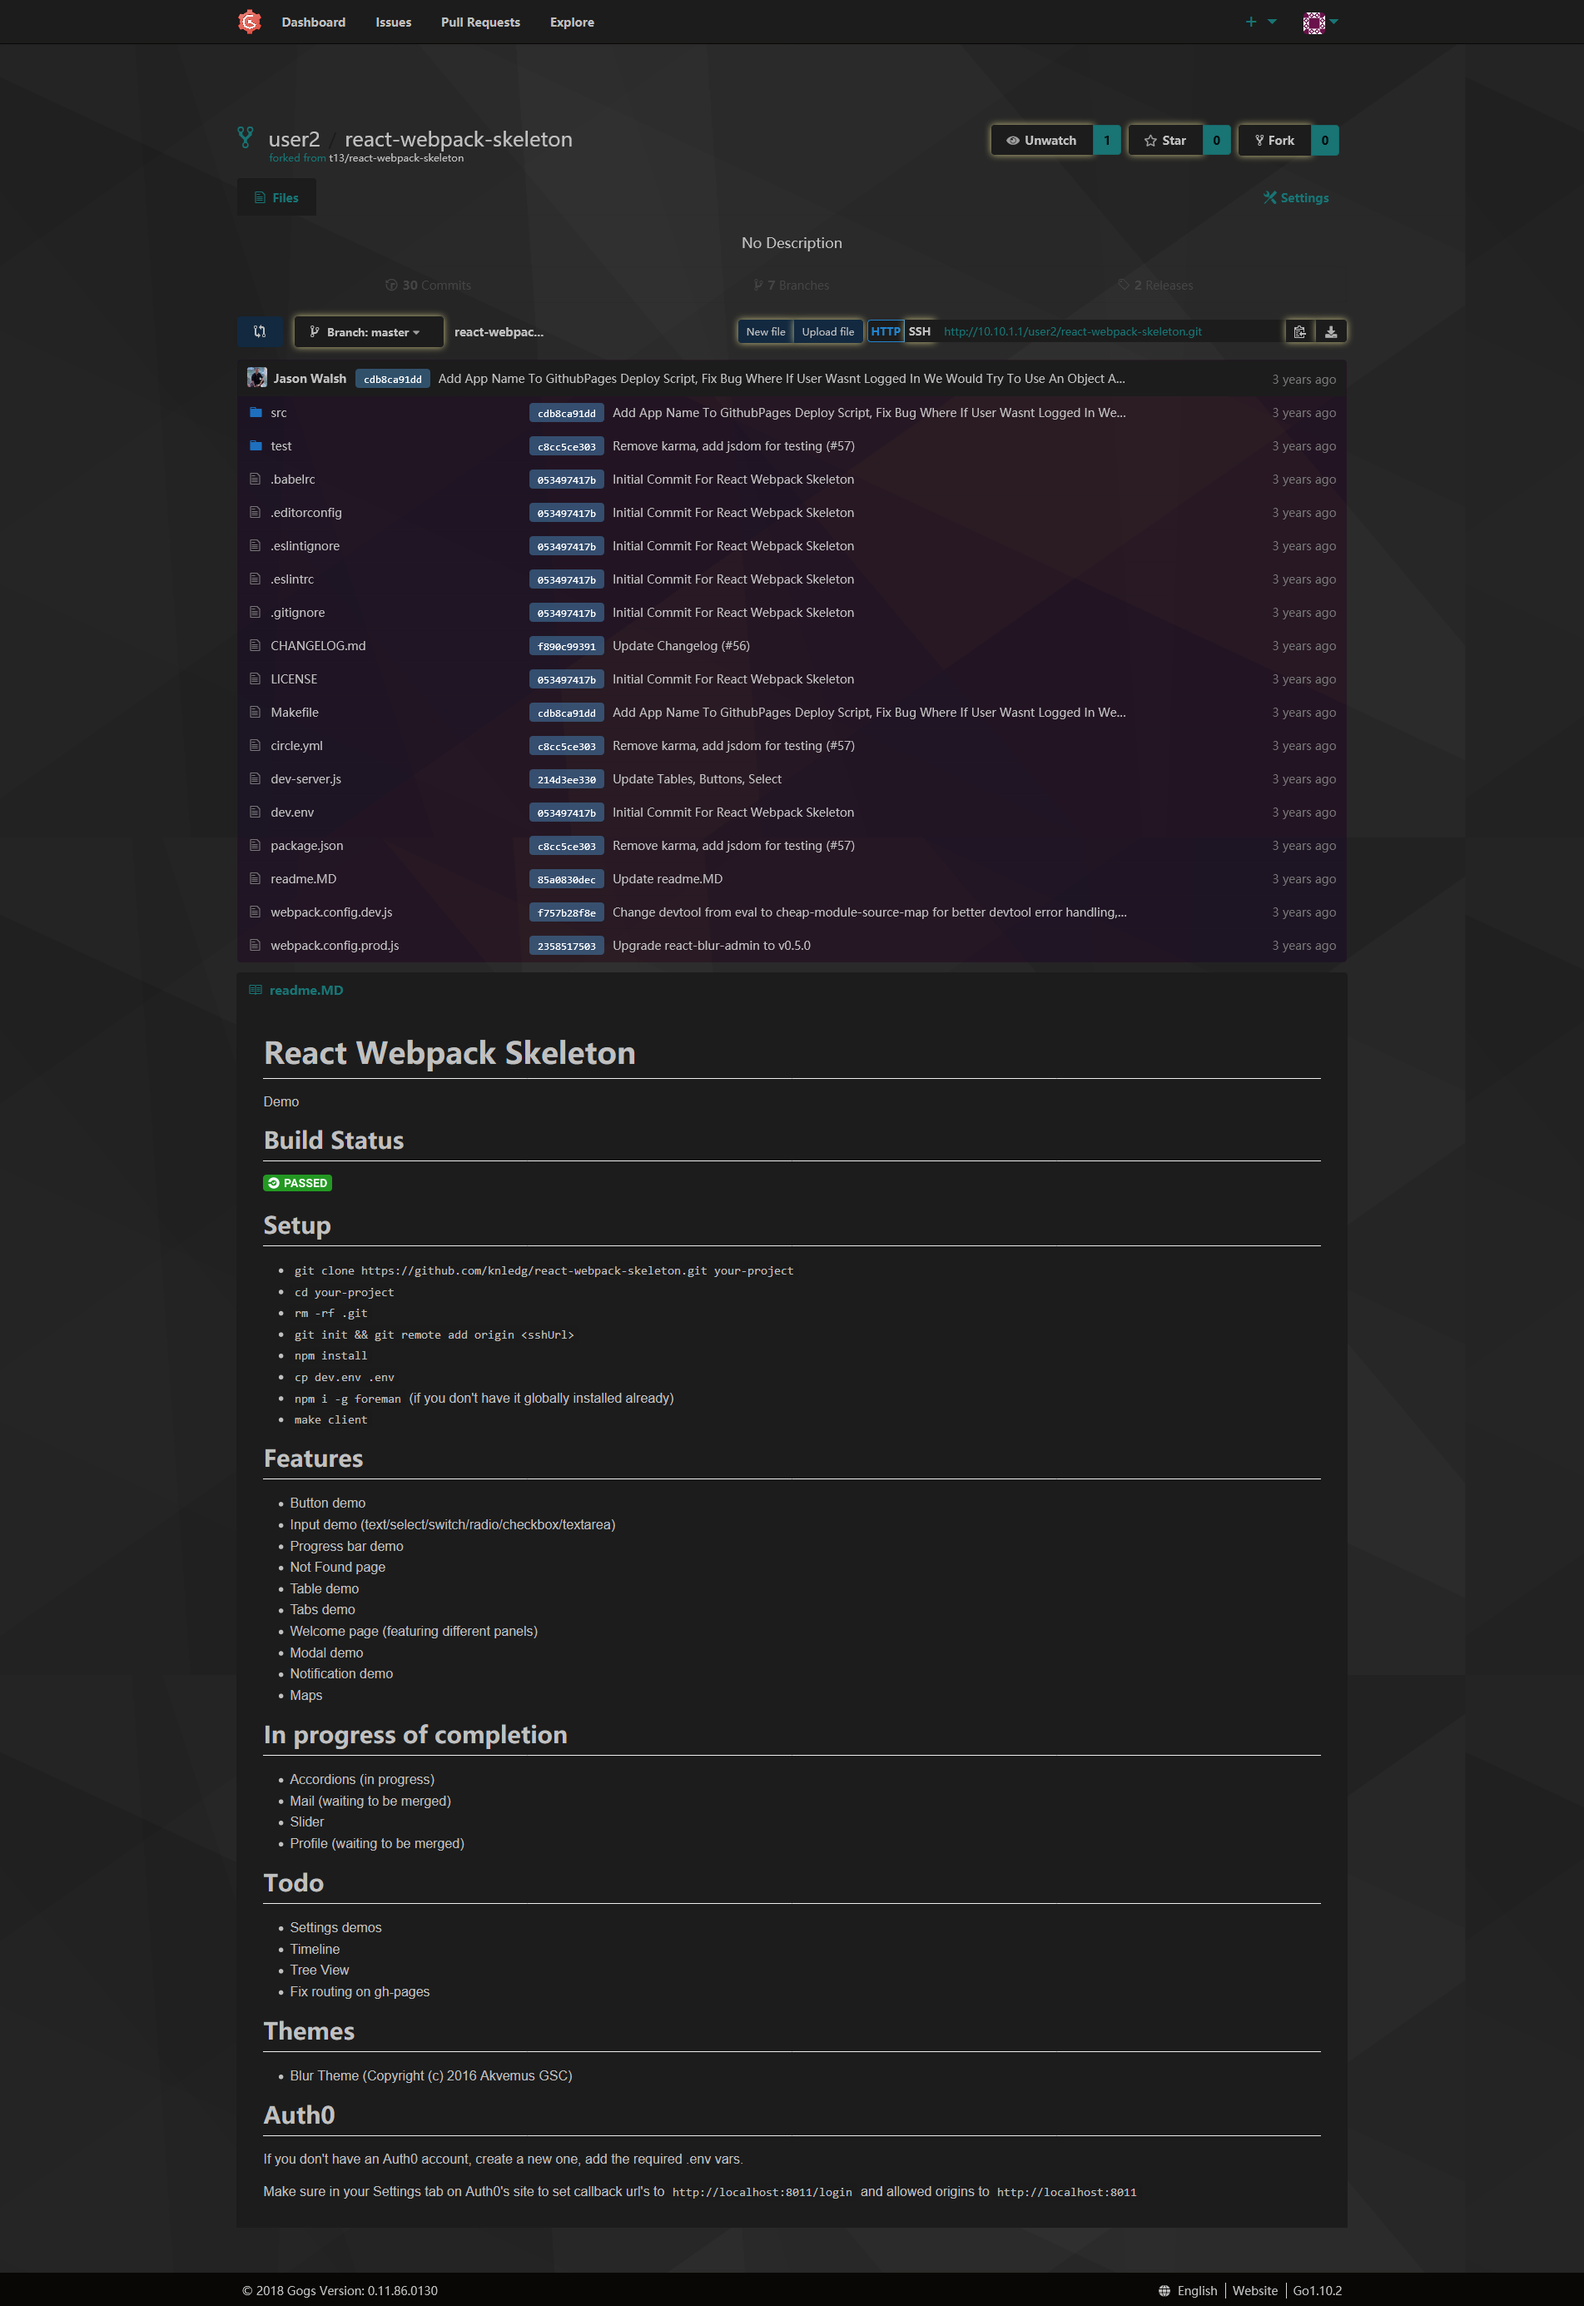
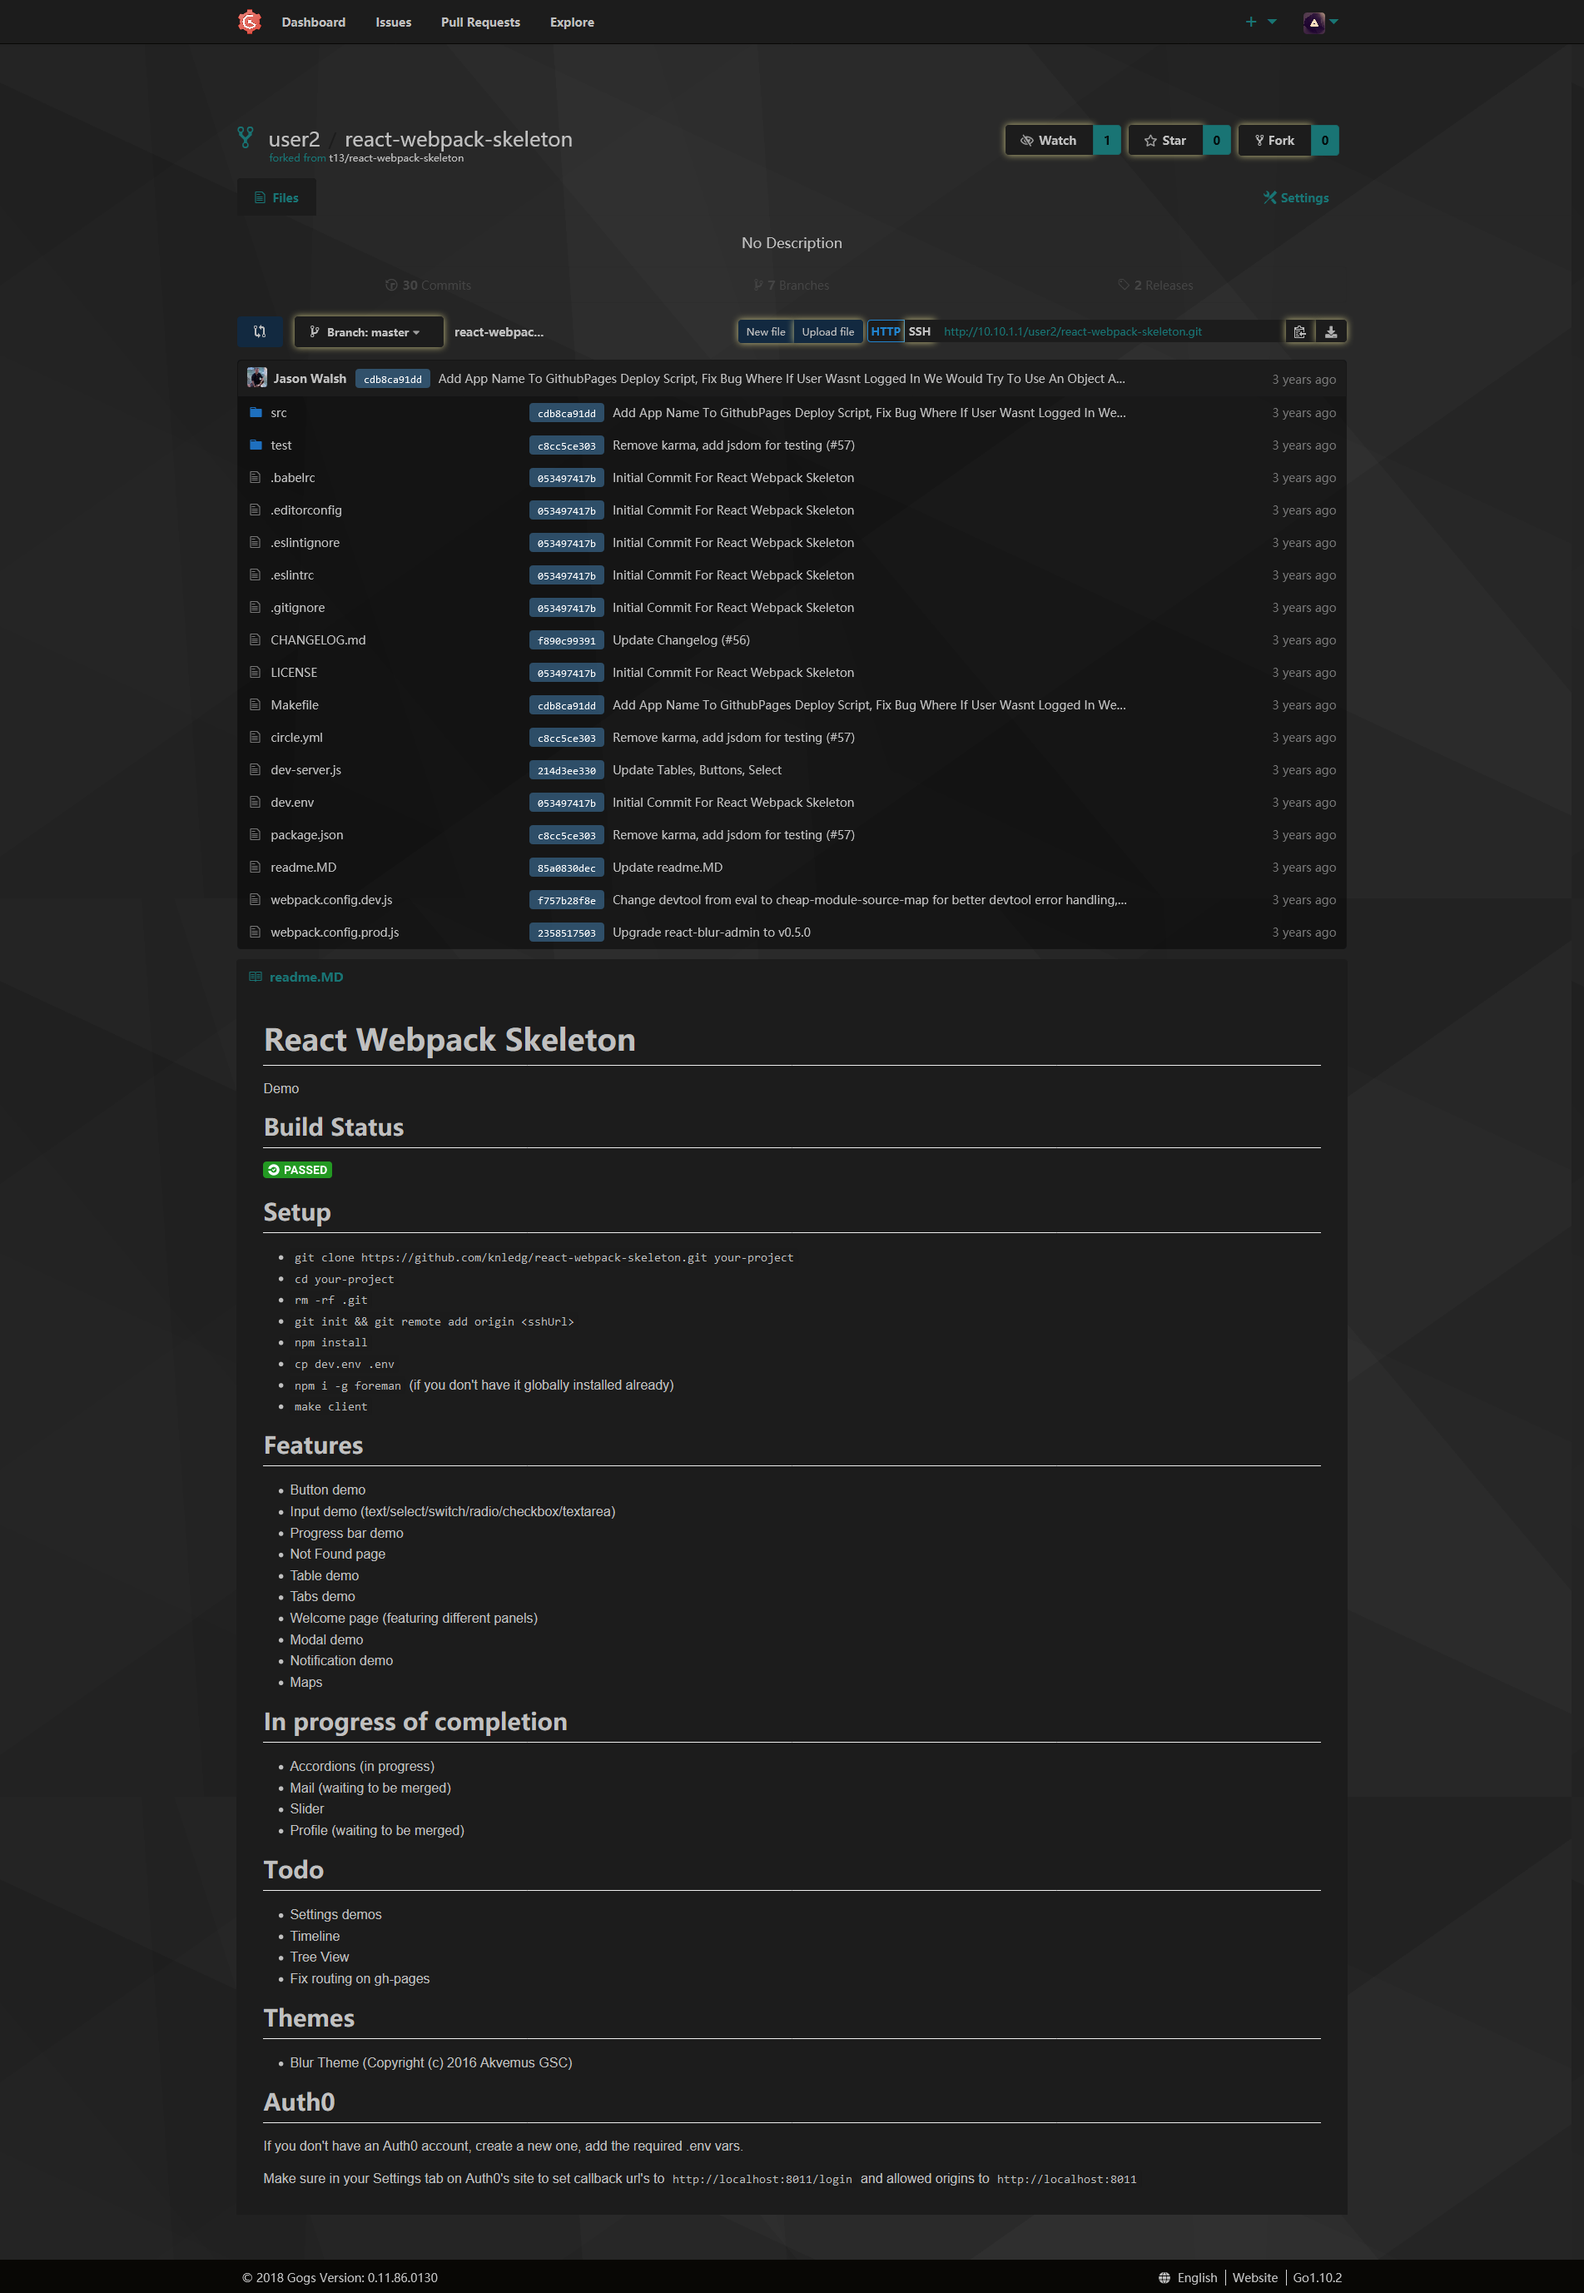
update repo.png

diff --git a/themes/dark_theme.css b/themes/dark_theme.css
@@ -467,6 +467,10 @@ footer {
   background: #080705;
 }
 
+.ui.table tr td {
+  border-top: none;
+}
+
 .repository.file.list #repo-files-table tr:hover {
   background-color: #080705;
 }
@@ -764,7 +768,7 @@ tr:hover a {
   background-image: url("/img/grad1.png");
   background-size: contain;
   background-attachment: fixed;
-  background-blend-mode: difference;
+  background-blend-mode: color-burn;
   color: silver;
 }
 
